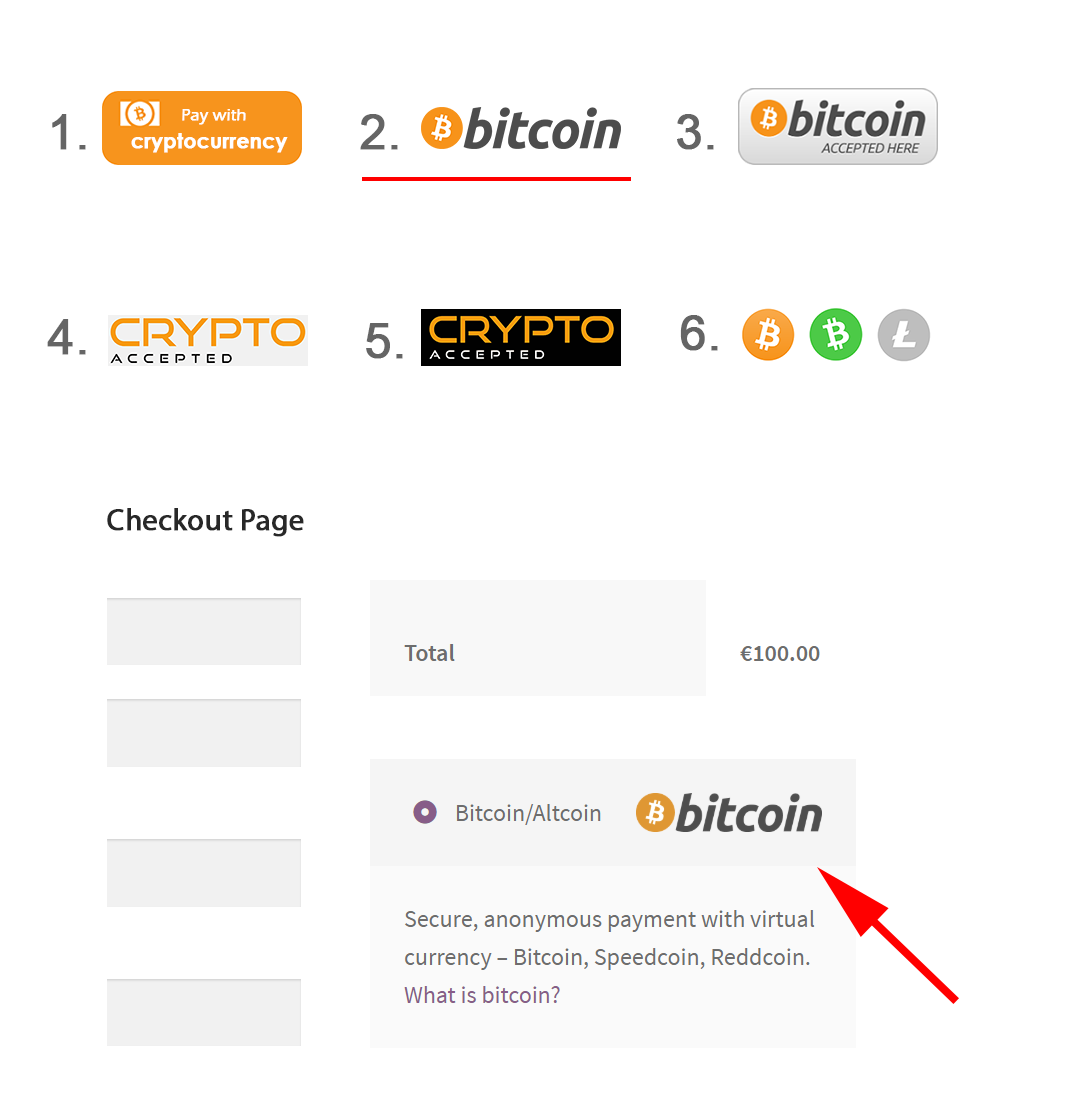
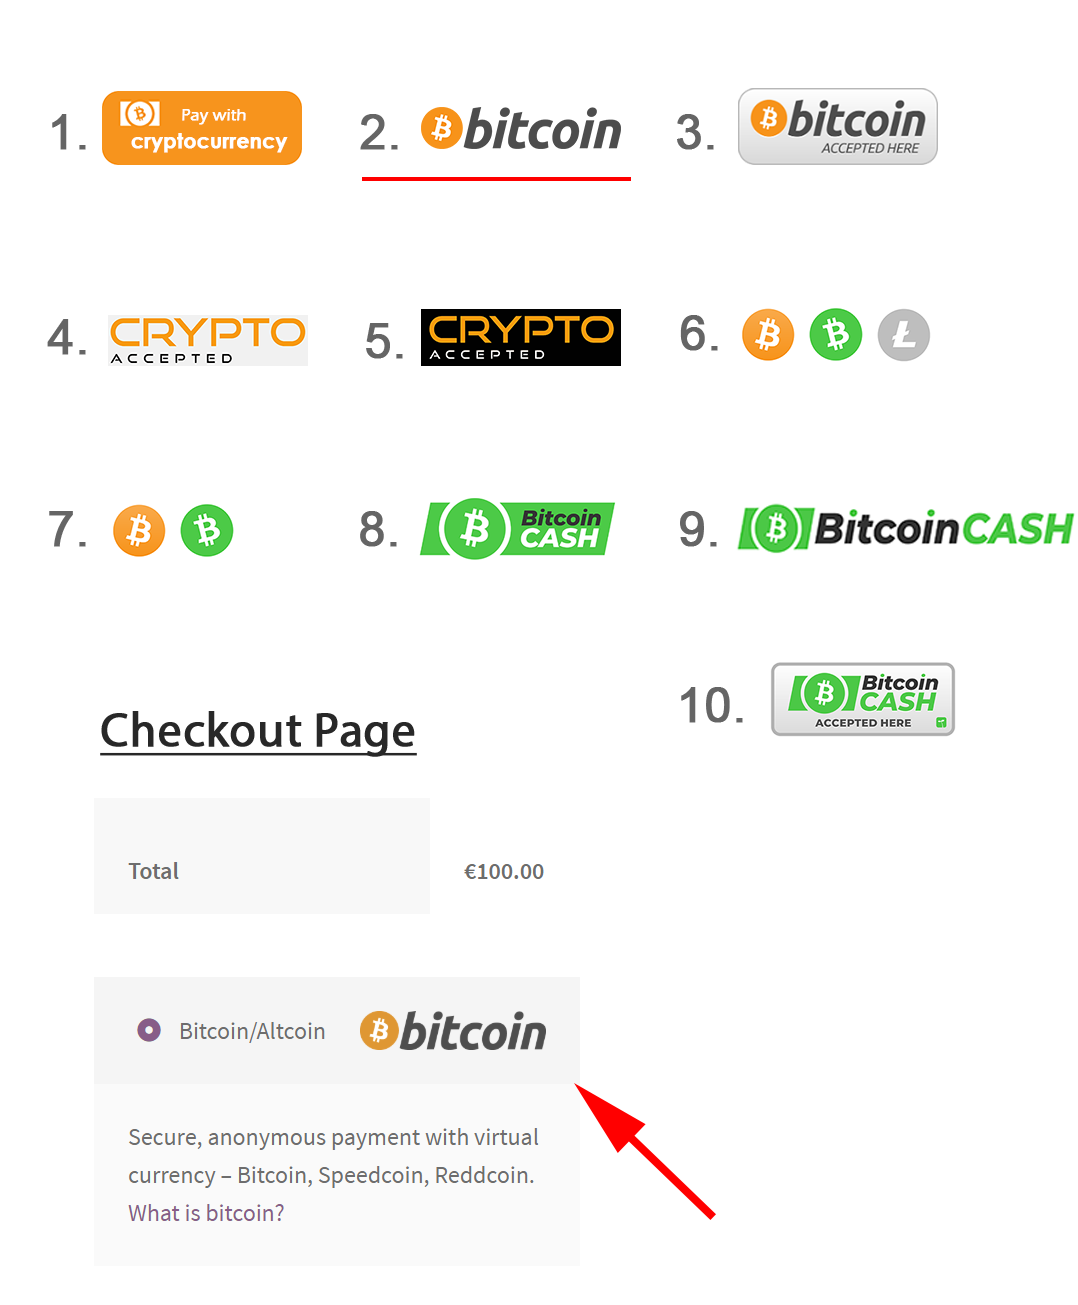
ver 1.2.7
Added Bitcoin Cash logos

diff --git a/gourl-woocommerce.php b/gourl-woocommerce.php
@@ -3,7 +3,7 @@
 Plugin Name: 		GoUrl WooCommerce - Bitcoin Altcoin Payment Gateway Addon. White Label Solution
 Plugin URI: 		https://gourl.io/bitcoin-payments-woocommerce.html
 Description: 		Provides a <a href="https://gourl.io">GoUrl.io</a> Bitcoin/Altcoin Payment Gateway for <a href="https://wordpress.org/plugins/woocommerce/">WooCommerce 2.1+</a>. Support product prices in USD/EUR/etc and in Bitcoin/Altcoins directly; sends the amount straight to your business Bitcoin/Altcoin wallet. Convert your USD/EUR/etc prices to cryptocoins using Google/Poloniex Exchange Rates. Direct Integration on your website, no external payment pages opens (as other payment gateways offer). Accept Bitcoin, BitcoinCash, BitcoinSV, Litecoin, Dash, Dogecoin, Speedcoin, Reddcoin, Potcoin, Feathercoin, Vertcoin, Peercoin, MonetaryUnit payments online. You will see the bitcoin/altcoin payment statistics in one common table on your website. No Chargebacks, Global, Secure. All in automatic mode.
-Version: 			1.2.6
+Version: 			1.2.7
 Author: 			GoUrl.io
 Author URI: 		https://gourl.io
 WC requires at least: 	2.1.0
@@ -799,7 +799,7 @@ if (!function_exists('gourl_wc_gateway_load') && !function_exists('gourl_wc_acti
 
 
 
-	    	if (!is_numeric($this->logo) || !in_array($this->logo, array(0,1,2,3,4,5,6)))               $this->logo = 1;
+	    	if (!is_numeric($this->logo) || !in_array($this->logo, array(0,1,2,3,4,5,6,7,8,9,10)))      $this->logo = 1;
 	    	if (!$this->emultiplier || !is_numeric($this->emultiplier) || $this->emultiplier < 0.01)    $this->emultiplier = 1;
 	    	if (!is_numeric($this->iconwidth) || $this->iconwidth < 30 || $this->iconwidth > 250)       $this->iconwidth = 60;
 	    	if (!is_numeric($this->qrcodesize) || $this->qrcodesize < 0 || $this->qrcodesize > 500)     $this->qrcodesize = 200;
@@ -830,7 +830,11 @@ if (!function_exists('gourl_wc_gateway_load') && !function_exists('gourl_wc_acti
 	    	$logos[3] = __( "3. Bitcoin Logo with text", GOURLWC );
 	    	$logos[4] = __( "4. Light Logo with text - Crypto Accepted", GOURLWC );
 	    	$logos[5] = __( "5. Dark Logo with text - Crypto Accepted", GOURLWC );
-	    	$logos[6] = __( "6. Crypto Icons", GOURLWC );
+	    	$logos[6] = __( "6. Crypto Icons (Bitcoin, Bitcoin Cash, Litecoin)", GOURLWC );
+	    	$logos[7] = __( "7. Crypto Icons (Bitcoin, Bitcoin Cash)", GOURLWC );
+	    	$logos[8] = __( "8. Bitcoin Cash Logo green", GOURLWC );
+	    	$logos[9] = __( "9. Bitcoin Cash Logo white", GOURLWC );
+	    	$logos[10] = __( "10. Bitcoin Cash Logo with text", GOURLWC );
 	    	
 	    	$this->form_fields = array(
                     'enabled'		=> array(

diff --git a/readme.md b/readme.md
@@ -2,7 +2,7 @@
 GoUrl WooCommerce - Bitcoin Altcoin Payment Gateway Addon
 -----------------------------------------------------------
 
-Version 1.2.6
+Version 1.2.7
 
 **Wordpress Plugin provides a Bitcoin/Altcoin Payment Gateway for WooCommerce 2.1+ or higher.**
 
@@ -14,7 +14,7 @@ White Label Solution. Accept Bitcoin, BitcoinCash, BitcoinSV, Litecoin, Dash, Do
 * Screenshots: [https://gourl.io/bitcoin-payments-woocommerce.html#screenshot](https://gourl.io/bitcoin-payments-woocommerce.html#screenshot)
 * Requires at least: Wordpress 3.5 and WooCommerce 2.1
 * Tested up to: Wordpress 5.0 and WooCommerce 3.5
-* Stable Tag: 1.2.6
+* Stable Tag: 1.2.7
 * License: GNU Version 2 or Any Later Version
 
 .
